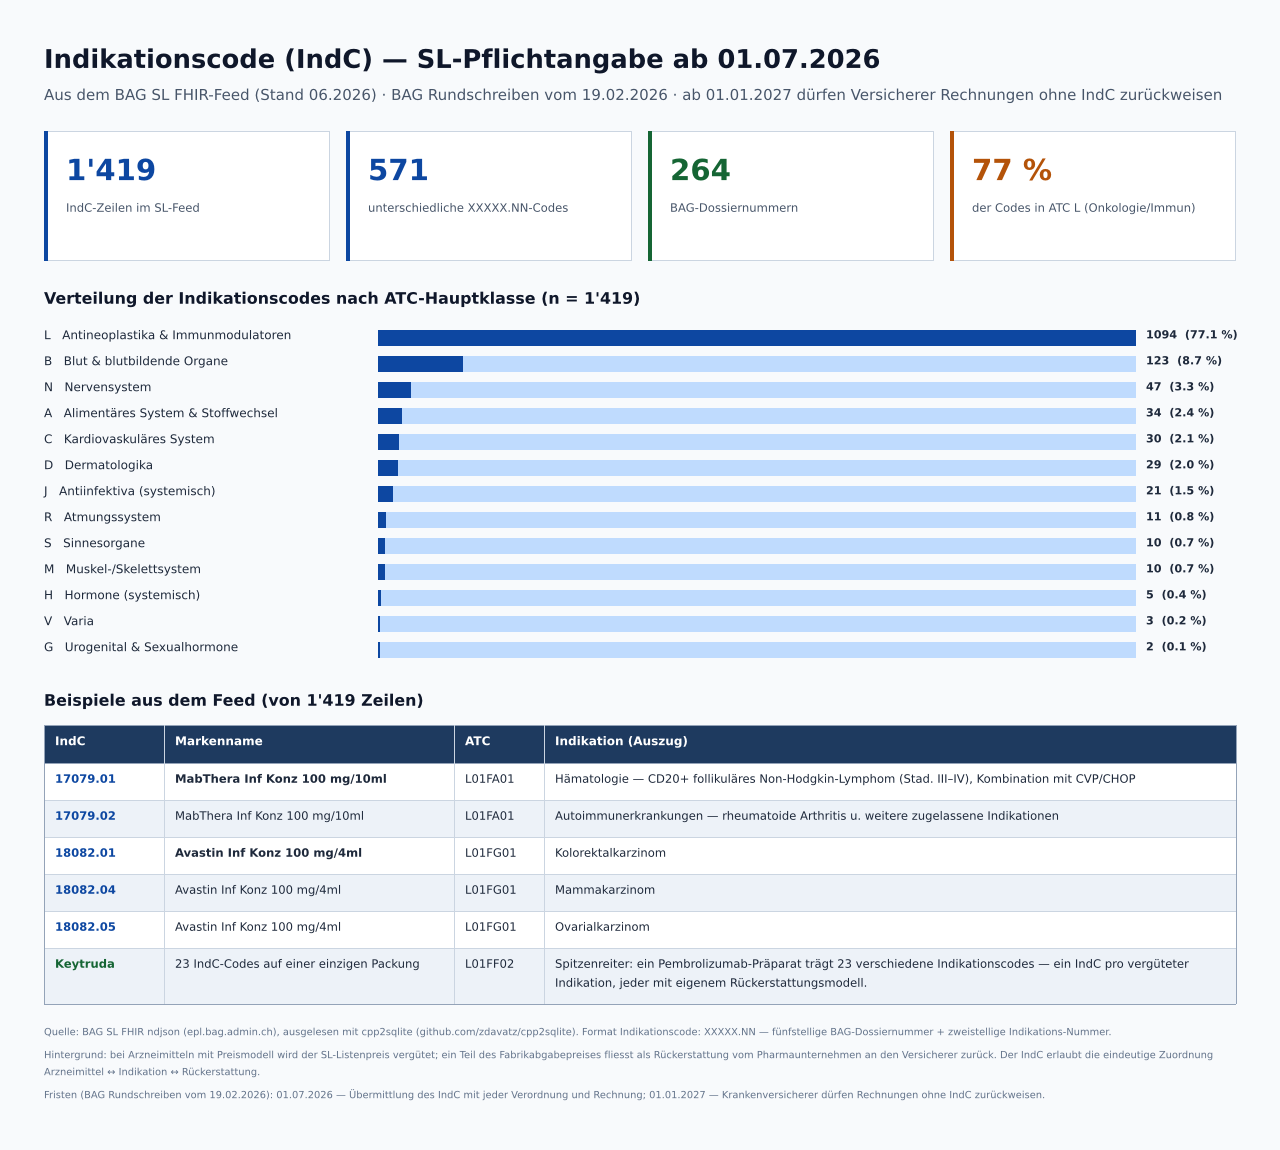
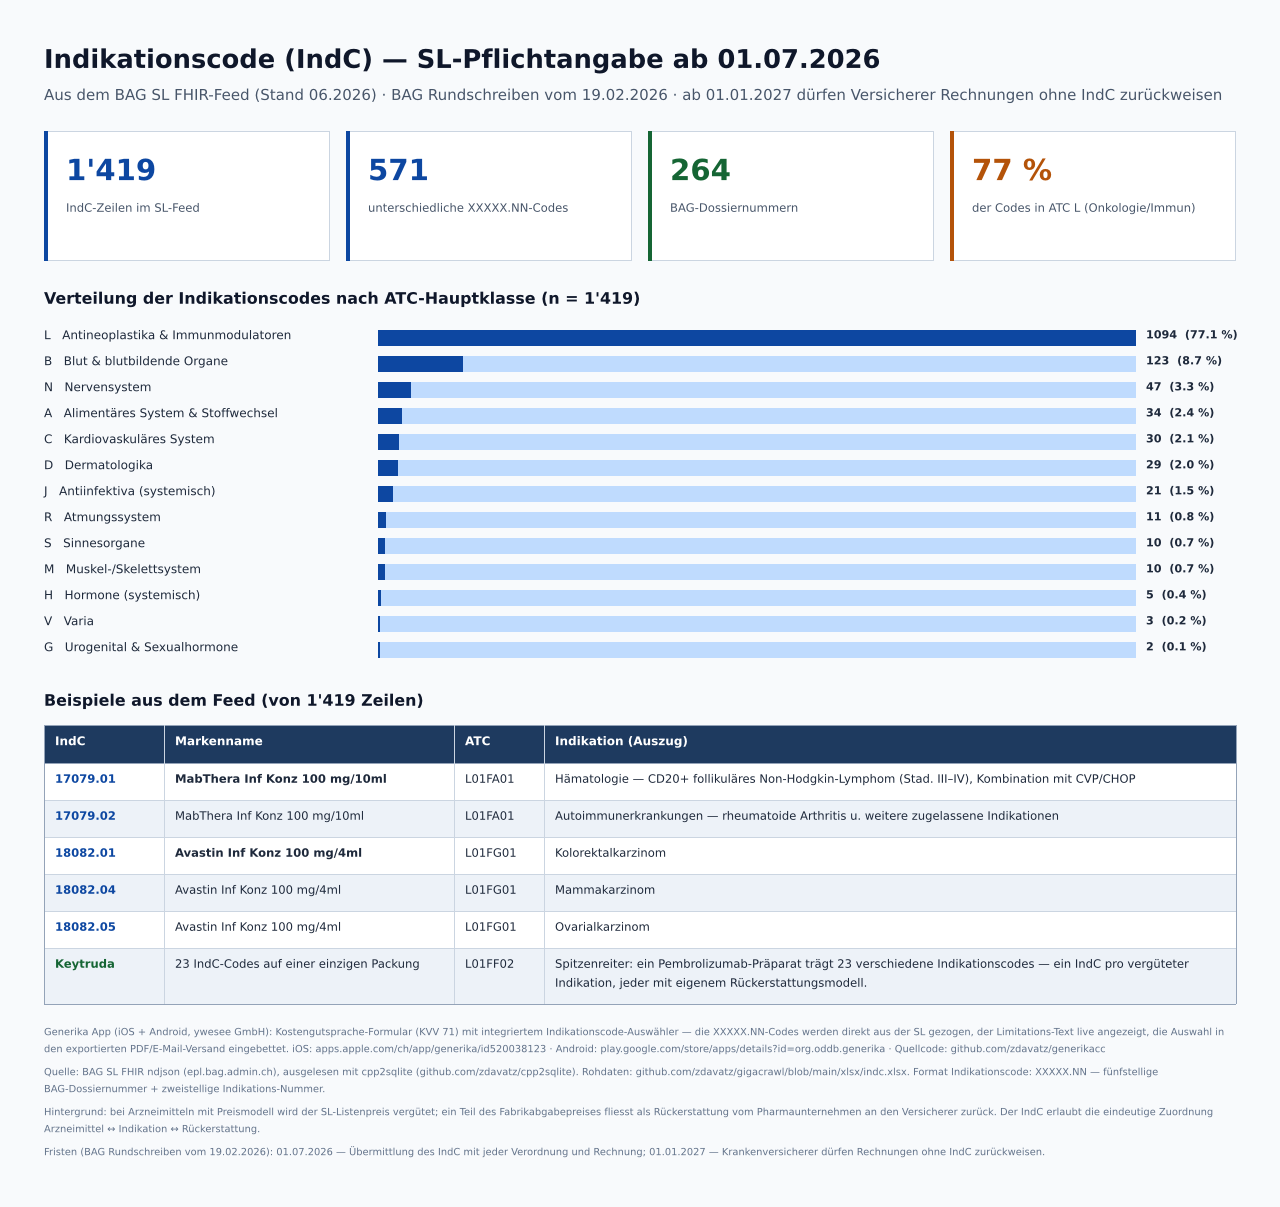
Mention Generika App (KVV 71 form with IndC selector) in PNG + PDF
The Generika.cc iOS/Android app already ships a Kostengutsprache
(KVV 71) form with an integrated Indikationscode selector — XXXXX.NN
codes are pulled live from the SL feed, the matching limitations text
is shown inline, and the selection is embedded in the exported PDF /
e-mail. Adds verified links to:

  iOS App Store — apps.apple.com/ch/app/generika/id520038123
  Google Play   — play.google.com/store/apps/details?id=org.oddb.generika
  Source        — github.com/zdavatz/generikacc

PDF page 1 gets a dedicated callout block (heading + body + 3-link
row); PNG footer adds a fourth Generika App line above the existing
source / background / dates notes.

diff --git a/src/bin/indc_pdf.rs b/src/bin/indc_pdf.rs
@@ -31,6 +31,9 @@ const BAG_RUNDSCHREIBEN: &str = "https://www.spezialitaetenliste.ch/";
 const EPL_BAG: &str = "https://epl.bag.admin.ch";
 const CPP2SQLITE: &str = "https://github.com/zdavatz/cpp2sqlite";
 const INDC_XLSX: &str = "https://github.com/zdavatz/gigacrawl/blob/main/xlsx/indc.xlsx";
+const GENERIKA_IOS: &str = "https://apps.apple.com/ch/app/generika/id520038123";
+const GENERIKA_PLAY: &str = "https://play.google.com/store/apps/details?id=org.oddb.generika";
+const GENERIKA_GITHUB: &str = "https://github.com/zdavatz/generikacc";
 
 fn rgb(r: u8, g: u8, b: u8) -> Color {
     Color::Rgb(Rgb::new(r as f32 / 255.0, g as f32 / 255.0, b as f32 / 255.0, None))
@@ -429,9 +432,28 @@ fn main() {
         "Stand 01.01.2026 tragen rund 170 SL-Arzneimittel die PM-Kennzeichnung («Ja»/«Nein»).",
         8.5, ink.clone(), right_w);
 
+    // ---- Generika App callout (page 1, spans both columns) ----
+    let mut app_y = atc_bottom.max(ry) + 16.0;
+    pdf.line(MARGIN_X, by(app_y),
+        "Generika App — bereits IndC-ready",
+        true, 11.0, title_c.clone(), None);
+    app_y += 13.0;
+    app_y = pdf.paragraph(MARGIN_X, app_y,
+        "Das in der iOS- und Android-App enthaltene Kostengutsprache-Formular (KVV 71) verfügt über einen integrierten Indikationscode-Auswähler: die XXXXX.NN-Codes werden direkt aus der SL gezogen, der zugehörige Limitations-Text wird live angezeigt und die Auswahl in den exportierten PDF/E-Mail-Versand eingebettet.",
+        8.5, ink.clone(), fw) + 4.0;
+    let ios = "iOS App Store \u{2197}";
+    pdf.line(MARGIN_X, by(app_y), ios, true, 8.5, link_c.clone(), Some(GENERIKA_IOS));
+    let mut alx = MARGIN_X + pdf.width(ios, true, 8.5) * WRAP_FUDGE + 16.0;
+    let play = "Google Play \u{2197}";
+    pdf.line(alx, by(app_y), play, true, 8.5, link_c.clone(), Some(GENERIKA_PLAY));
+    alx += pdf.width(play, true, 8.5) * WRAP_FUDGE + 16.0;
+    let gh = "Quellcode (zdavatz/generikacc) \u{2197}";
+    pdf.line(alx, by(app_y), gh, false, 8.5, link_c.clone(), Some(GENERIKA_GITHUB));
+    app_y += 14.0;
+
     // Footer / sources for page 1. Apply WRAP_FUDGE to link-text widths since
     // ab_glyph under-measures vs. the actual rendered advance.
-    let foot = atc_bottom.max(ry) + 14.0;
+    let foot = app_y + 6.0;
     let label = "Quellen:";
     pdf.line(MARGIN_X, by(foot), label, true, 8.5, title_c.clone(), None);
     let mut lx = MARGIN_X + pdf.width(label, true, 8.5) * WRAP_FUDGE + 10.0;

diff --git a/src/bin/indc_chart.rs b/src/bin/indc_chart.rs
@@ -139,7 +139,8 @@ fn main() {
 
     // ---- Footnotes ----
     let footnotes = [
-        "Quelle: BAG SL FHIR ndjson (epl.bag.admin.ch), ausgelesen mit cpp2sqlite (github.com/zdavatz/cpp2sqlite). Format Indikationscode: XXXXX.NN — fünfstellige BAG-Dossiernummer + zweistellige Indikations-Nummer.",
+        "Generika App (iOS + Android, ywesee GmbH): Kostengutsprache-Formular (KVV 71) mit integriertem Indikationscode-Auswähler — die XXXXX.NN-Codes werden direkt aus der SL gezogen, der Limitations-Text live angezeigt, die Auswahl in den exportierten PDF/E-Mail-Versand eingebettet.  iOS: apps.apple.com/ch/app/generika/id520038123  ·  Android: play.google.com/store/apps/details?id=org.oddb.generika  ·  Quellcode: github.com/zdavatz/generikacc",
+        "Quelle: BAG SL FHIR ndjson (epl.bag.admin.ch), ausgelesen mit cpp2sqlite (github.com/zdavatz/cpp2sqlite). Rohdaten: github.com/zdavatz/gigacrawl/blob/main/xlsx/indc.xlsx. Format Indikationscode: XXXXX.NN — fünfstellige BAG-Dossiernummer + zweistellige Indikations-Nummer.",
         "Hintergrund: bei Arzneimitteln mit Preismodell wird der SL-Listenpreis vergütet; ein Teil des Fabrikabgabepreises fliesst als Rückerstattung vom Pharmaunternehmen an den Versicherer zurück. Der IndC erlaubt die eindeutige Zuordnung Arzneimittel ↔ Indikation ↔ Rückerstattung.",
         "Fristen (BAG Rundschreiben vom 19.02.2026): 01.07.2026 — Übermittlung des IndC mit jeder Verordnung und Rechnung;  01.01.2027 — Krankenversicherer dürfen Rechnungen ohne IndC zurückweisen.",
     ];